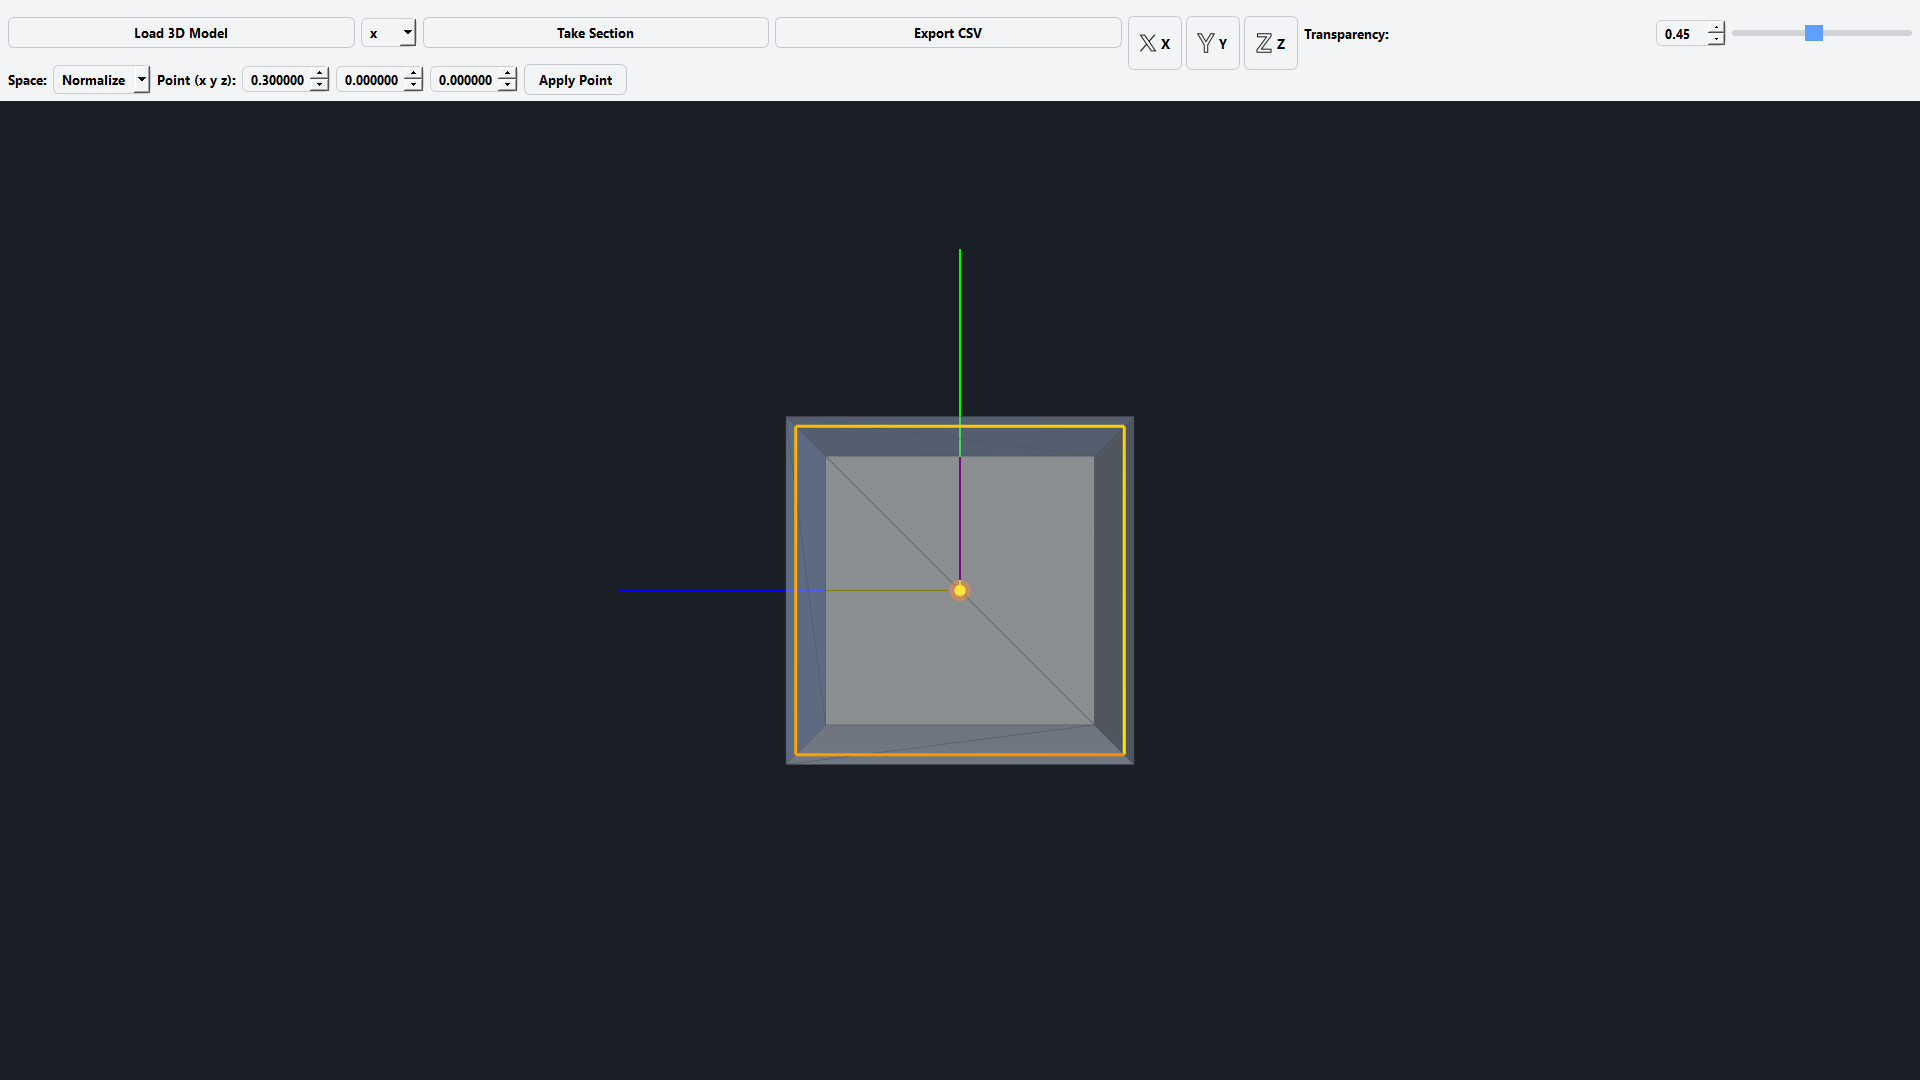
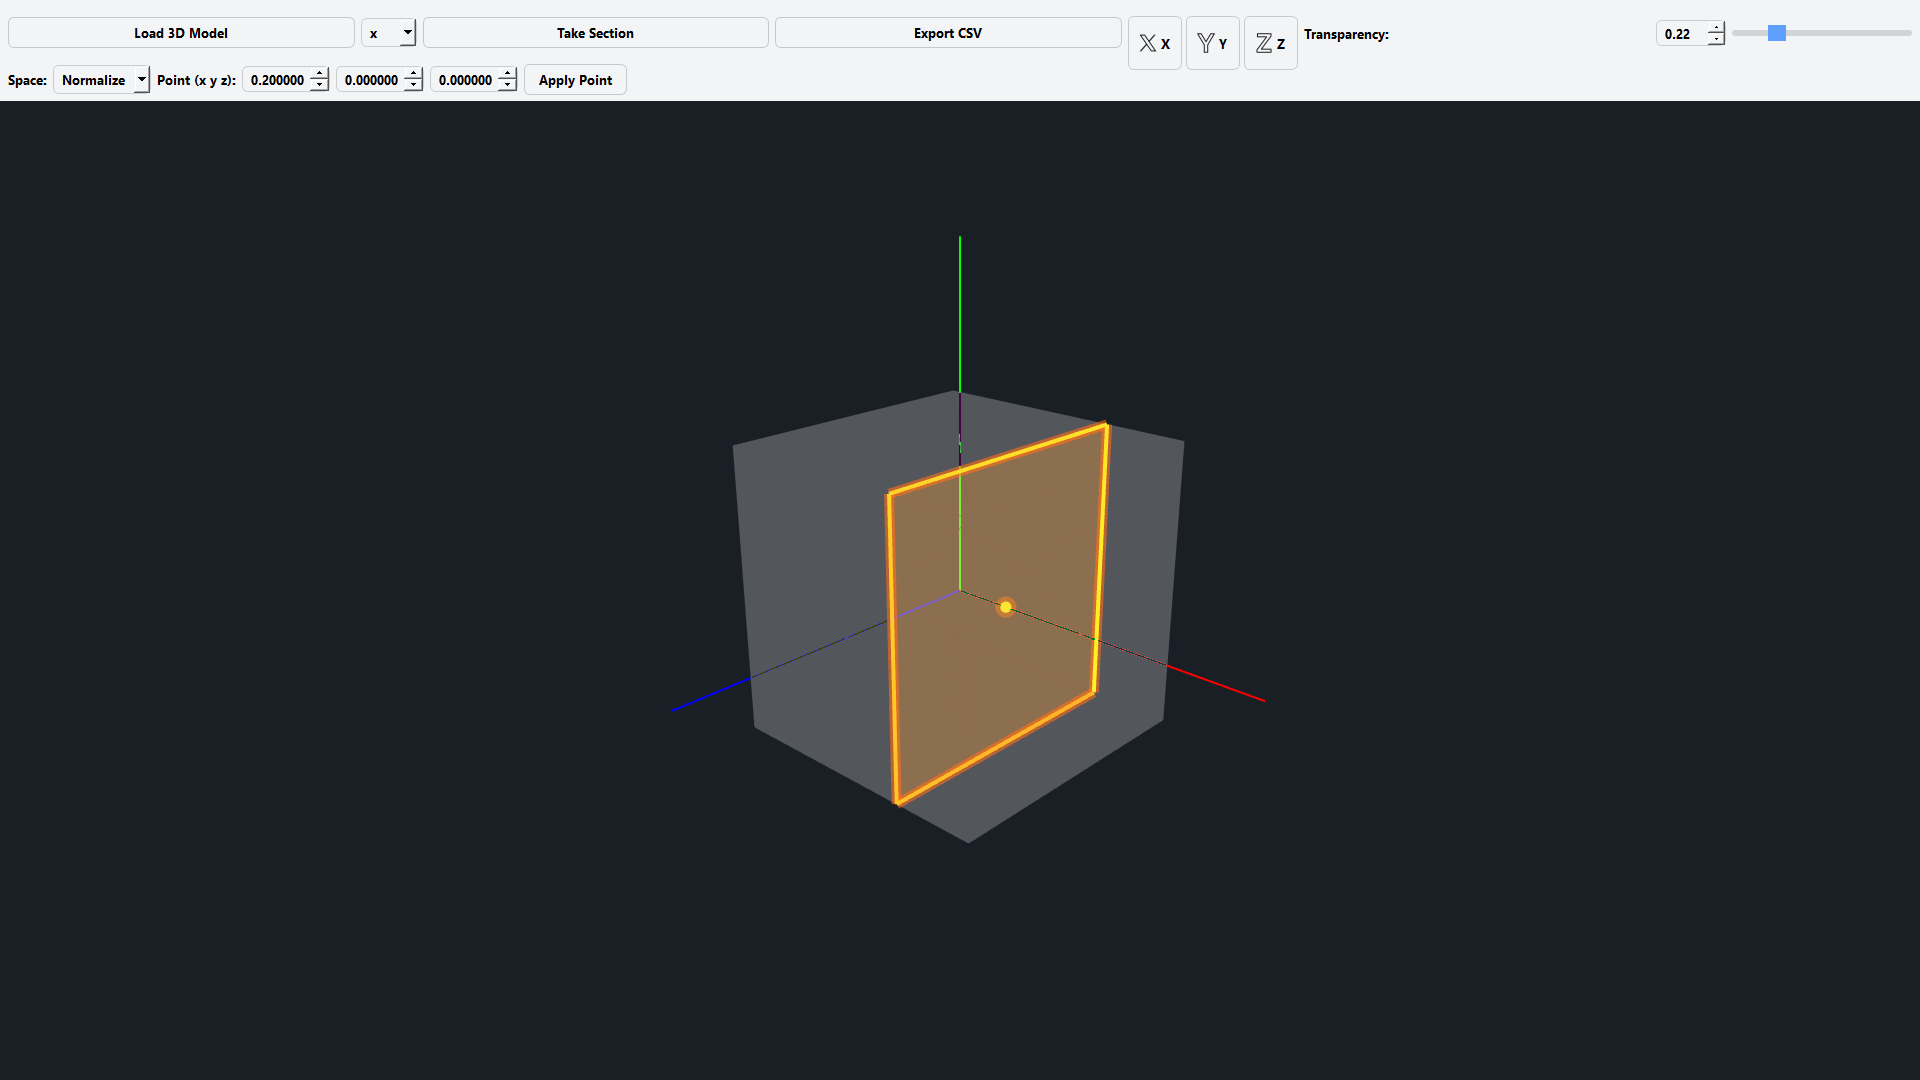
Show Take Section results: bright orange cut planes for X/Y/Z in 3D perspective.

Changed region(s): [[0.375, 0.3667, 0.625, 0.7944]]

diff --git a/app.js b/app.js
@@ -234,15 +234,15 @@ const GALLERY_CAPTIONS = {
   "01-empty.png": "Bos baslangic - 3D Model Viewer",
   "02-model-loaded.png": "STL yuklendi - mesh + eksenler",
   "03-point-applied.png": "Nokta girisi - Apply Point (0.25, -0.15, 0.10)",
-  "04-section-x.png": "Kesit - X ekseni (kamera X)",
-  "05-section-y.png": "Kesit - Y ekseni (kamera Y)",
-  "06-section-z.png": "Kesit - Z ekseni (kamera Z)",
-  "07-transparency.png": "Seffaflik ayari",
+  "04-section-x.png": "Take Section - X kesiti (turuncu kesit duzlemi)",
+  "05-section-y.png": "Take Section - Y kesiti (turuncu kesit duzlemi)",
+  "06-section-z.png": "Take Section - Z kesiti (turuncu kesit duzlemi)",
+  "07-transparency.png": "Seffaflik + kesit hala gorunur",
   "08-export-csv.png": "Export CSV - basari dialogu",
   "09-csv-content.png": "Export CSV - kesit koordinatlari"
 };
 
-const IMG_CACHE_BUST = "20260921sections";
+const IMG_CACHE_BUST = "20260921takeSection";
 
 function prettyName(file) {
   if (GALLERY_CAPTIONS[file]) return GALLERY_CAPTIONS[file];
